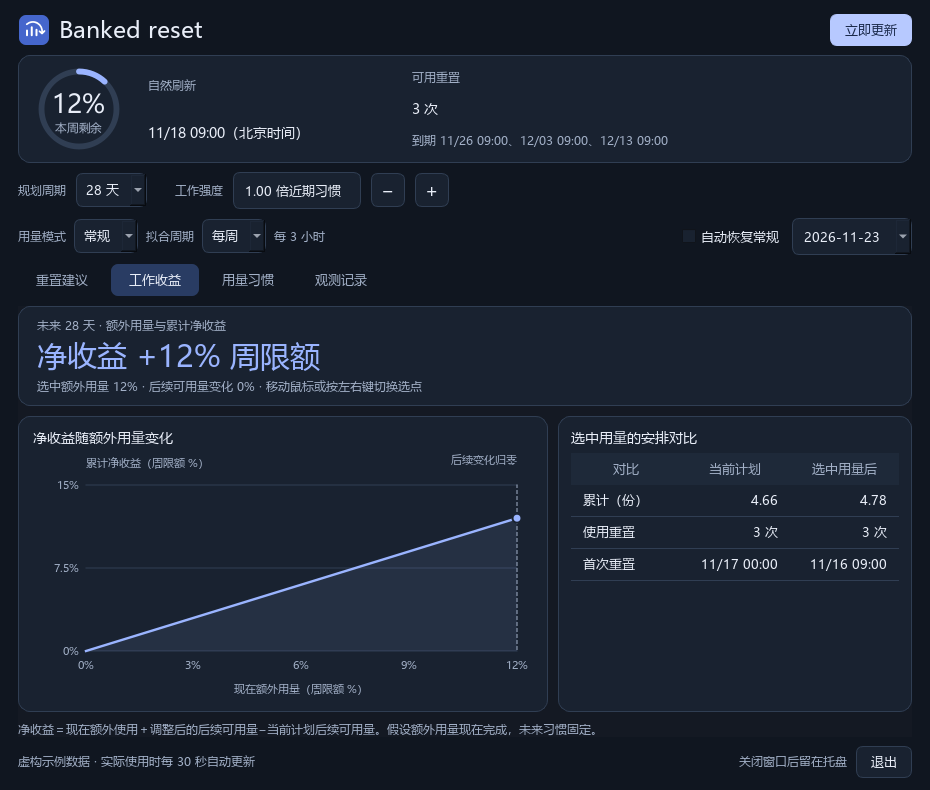
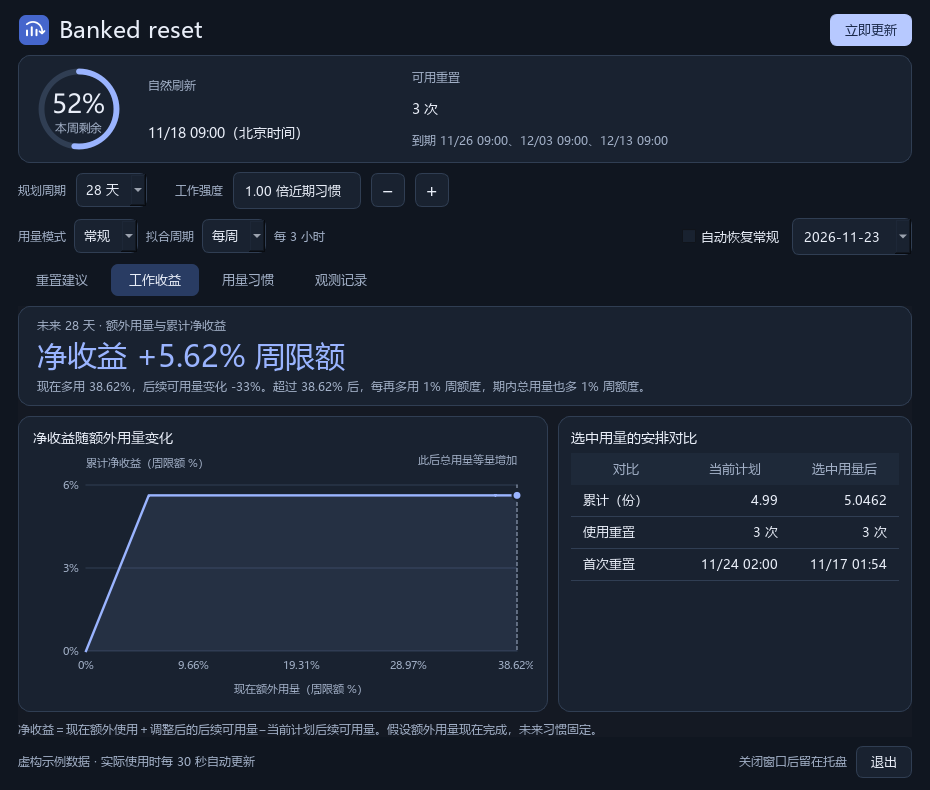
End the return curve when each extra point adds one point to total usage

diff --git a/calculator.js b/calculator.js
@@ -82,6 +82,20 @@
     return a.time > b.time;
   }
 
+  function resetTimes(start, end, expiries, options, depletion) {
+    const grid = [start];
+    for (const time of options.candidateTimes ?? []) {
+      if (Number.isFinite(time) && time >= start && time < end - EPS) grid.push(time);
+    }
+    for (let t = Math.ceil(start / HOUR) * HOUR; t < end - EPS; t += HOUR) {
+      if (t > start + EPS) grid.push(t);
+    }
+    // Exact current depletion and each deadline supplement the hourly grid.
+    if (!options.sharedCandidates && depletion !== null && depletion < end - EPS) grid.push(depletion);
+    for (const expiry of expiries) if (expiry - HOUR > start && expiry - HOUR < end) grid.push(expiry - HOUR);
+    return [...new Set(grid)].sort((a,b) => a-b);
+  }
+
   function optimize(model, options = {}) {
     const start = options.start ?? model.account.capturedAt;
     const end = start + (options.days ?? 28) * 24 * HOUR;
@@ -91,18 +105,8 @@
     const expiries = (options.expiries ?? model.account.expiries).filter(e => e > start).sort((a,b) => a-b);
     const demand = demandCurve(model, start, end, strength);
     const base = { time: start, remaining, refresh, served: 0, count: 0, waste: 0, prev: null, card: -1 };
-    const grid = [start];
-    for (const time of options.candidateTimes ?? []) {
-      if (Number.isFinite(time) && time >= start && time < end - EPS) grid.push(time);
-    }
-    for (let t = Math.ceil(start / HOUR) * HOUR; t < end - EPS; t += HOUR) {
-      if (t > start + EPS) grid.push(t);
-    }
-    // Exact current depletion and each deadline supplement the hourly grid.
     const depletion = demand.reaches(start, Math.min(end, refresh), remaining);
-    if (!options.sharedCandidates && depletion !== null && depletion < end - EPS) grid.push(depletion);
-    for (const expiry of expiries) if (expiry - HOUR > start && expiry - HOUR < end) grid.push(expiry - HOUR);
-    const candidates = [...new Set(grid)].sort((a,b) => a-b);
+    const candidates = resetTimes(start, end, expiries, options, depletion);
 
     function solve(forceNow) {
       const nodes = [];
@@ -186,15 +190,17 @@
       // Show both sides of the strict reset-eligibility boundary.
       usages.push(remaining-80, Math.min(remaining, remaining-80+.01));
     }
+    const demand = demandCurve(model, start, end, options.strength ?? 1);
+    const until = Math.min(end, refresh);
+    const spare = remaining - demand.at(until);
+    if (spare > EPS && spare < remaining) usages.push(spare);
     const samples = [...new Set(usages)].sort((a,b) => a-b);
     const comparable = Object.assign({}, options);
     if (samples.length) {
-      const demand = demandCurve(model, start, end, options.strength ?? 1);
-      const until = Math.min(end, refresh);
       // Every point, including the unchanged plan, uses the same search times.
       comparable.candidateTimes = (options.candidateTimes ?? []).concat(
         samples.map(used => demand.reaches(start, until, remaining-used)));
-      // Keep the same grid while locating the future-change zero crossing.
+      // Compare every extra-usage scenario on the same reset grid.
       comparable.sharedCandidates = true;
     }
     const result = optimize(model, comparable);
@@ -214,28 +220,52 @@
       return { usage, after: summary(plan.optimal, usage), futureGain, totalGain: usage+futureGain };
     }
     let points = samples.map(score);
-    let last = 0;
-    points.forEach((point, index) => { if (point.futureGain >= -EPS) last = index; });
-    let limit = Math.abs(points[points.length-1].futureGain) <= EPS ? 'futureZero' : 'quota';
-    if (last < points.length-1) {
-      limit = 'futureZero';
-      let endpoint = points[last], high = points[last+1].usage;
-      while (high-endpoint.usage > .001) {
-        const trial = score((endpoint.usage+high)/2);
-        if (trial.futureGain >= -EPS) endpoint = trial;
-        else high = trial.usage;
-      }
-      points = points.slice(0, last+1);
-      if (endpoint.usage > points[last].usage+EPS) points.push(endpoint);
-      if (endpoint.usage > 0 && points.length < 21) {
-        const known = new Map(points.map(point => [point.usage, point]));
-        const visible = [...new Set(points.map(point => point.usage).concat(
-          Array.from({length: 19}, (_, i) => endpoint.usage*(i+1)/20)))].sort((a,b) => a-b);
-        points = visible.map(usage => known.get(usage) ?? score(usage));
+    const fullBalance = points[points.length-1];
+    // Find the start of the final interval with constant future usage.
+    // Between first-reset eligibility changes, every feasible schedule's
+    // future usage is nonincreasing as more balance is spent now.
+    const probes = new Set(samples);
+    if (remaining >= 80 && result.expiries.length) {
+      const lastReset = result.expiries[result.expiries.length-1]-HOUR;
+      for (const time of resetTimes(start, end, result.expiries, comparable, null)) {
+        if (time >= refresh-EPS || time > lastReset+EPS) break;
+        const gate = remaining-demand.at(time)-80+EPS;
+        if (gate >= 0 && gate < remaining) {
+          probes.add(Math.max(0, gate-EPS));
+          probes.add(Math.min(remaining, gate+EPS));
+        }
       }
     }
+    const known = new Map(points.map(p => [p.usage, p]));
+    const at = x => {
+      if (!known.has(x)) known.set(x, score(x));
+      return known.get(x);
+    };
+    const onTail = x => Math.abs(at(x).futureGain-fullBalance.futureGain) <= EPS;
+    let endpoint = remaining;
+    for (const x of [...probes].sort((a,b) => b-a)) {
+      if (onTail(x)) {
+        endpoint = x;
+        continue;
+      }
+      let low = x;
+      while (endpoint-low > EPS/4) {
+        const mid = (low+endpoint)/2;
+        if (onTail(mid)) endpoint = mid; else low = mid;
+      }
+      break;
+    }
+    // A boundary within the numeric resolution of the balance is the balance.
+    if (remaining-endpoint < .001 && endpoint > 0) endpoint = remaining;
+    const limit = endpoint < remaining ? 'linearTail' : 'quota';
+    if (limit === 'linearTail') {
+      const visible = new Set(points.filter(p => p.usage <= endpoint).map(p => p.usage));
+      visible.add(endpoint);
+      for (let i = 1; i < 20; i++) visible.add(endpoint*i/20);
+      points = [...visible].sort((a,b) => a-b).map(at);
+    }
     result.marginal = { available: true, availableUsage: remaining,
-      maxUsage: points[points.length-1].usage, limit, before, points };
+      maxUsage: points[points.length-1].usage, limit, before, fullBalance, points };
     return result;
   }
   scope.BankResetCore = { demandCurve, segment, optimize, calculate, HOUR, WEEK };

diff --git a/tests/test_desktop.py b/tests/test_desktop.py
@@ -68,27 +68,27 @@ class WorkReturnTests(unittest.TestCase):
         self.window.show()
         self.app.processEvents()
         chart = self.window.marginal_chart
-        self.assertIn('0–43%', self.window.comparison.text())
+        self.assertIn('0–50%', self.window.comparison.text())
         self.assertEqual(chart.curve['points'][0]['usage'], 0)
-        self.assertAlmostEqual(chart.curve['points'][-1]['usage'], 43, places=2)
+        self.assertAlmostEqual(chart.curve['points'][-1]['usage'], 50, places=2)
         plot = chart.plot_rect()
         target = plot.center()
         target.setX(plot.right()-1)
         QTest.mouseClick(chart, Qt.MouseButton.LeftButton, pos=target.toPoint())
-        self.assertAlmostEqual(chart.selected_usage, 43, places=2)
+        self.assertAlmostEqual(chart.selected_usage, 50, places=2)
         self.assertEqual(self.window.marginal_value.text(), '净收益 +43% 周限额')
         self.assertEqual(self.window.marginal_table.item(0, 1).text(), '0.28')
         self.assertEqual(self.window.marginal_table.item(0, 2).text(), '0.71')
-        self.assertAlmostEqual(chart.curve['points'][-1]['futureGain'], 0)
+        self.assertAlmostEqual(chart.curve['points'][-1]['futureGain'], -7)
         QTest.keyClick(chart, Qt.Key.Key_Home)
         self.assertEqual(chart.selected_usage, 0)
         self.assertEqual(self.window.marginal_value.text(), '净收益 0% 周限额')
         self.assertFalse(self.window.marginal_details.isHidden())
         self.assertEqual(self.window.marginal_table.item(0, 2).text(), '0.28')
         QTest.keyClick(chart, Qt.Key.Key_Right)
-        self.assertAlmostEqual(chart.selected_usage, 2.15, places=2)
-        self.assertEqual(self.window.marginal_value.text(), '净收益 +2.15% 周限额')
-        self.assertEqual(self.window.marginal_table.item(0, 2).text(), '0.3015')
+        self.assertAlmostEqual(chart.selected_usage, 2.5, places=2)
+        self.assertEqual(self.window.marginal_value.text(), '净收益 +2.5% 周限额')
+        self.assertEqual(self.window.marginal_table.item(0, 2).text(), '0.305')
 
     def test_totals_subtract_one_full_allowance_per_week(self):
         for index, days, total, surplus in [(0, 14, '0.14', '-1.86'),
@@ -155,15 +155,33 @@ class WorkReturnTests(unittest.TestCase):
         self.assertTrue(payload['result']['marginal']['available'])
         self.assertTrue(self.window.marginal_details.isHidden())
         self.assertIsNone(self.window.marginal_chart.curve)
-        self.assertEqual(self.window.marginal_value.text(), '现在多用，预计会减少后续可用量')
-        self.assertIn('只剩额外用量为 0% 的起点', self.window.marginal_note.text())
-        self.assertEqual(self.window.comparison.text(), self.window.marginal_value.text()+'。')
+        self.assertEqual(self.window.marginal_value.text(), '预计 28 天总用量持平')
+        self.assertIn('现在多用 0.5%，之后少用 0.5%', self.window.marginal_note.text())
+        self.assertIn('如果现在用完余额', self.window.comparison.text())
         self.assertEqual(self.window.marginal_table.rowCount(), 0)
         self.assertNotIn('切换选点', self.window.marginal_note.text())
         self.window.update_state(copy.deepcopy(self.payload))
         self.assertFalse(self.window.marginal_details.isHidden())
         self.assertIsNotNone(self.window.marginal_chart.curve)
         self.assertEqual(self.window.marginal_table.rowCount(), 3)
+
+    def test_break_even_range_is_visible_until_extra_usage_no_longer_displaces_future_usage(self):
+        self.window.days.setCurrentIndex(0)
+        payload = copy.deepcopy(self.payload)
+        model = payload['state']['model']
+        start = model['account']['capturedAt']
+        model['hourlyRates'] = [[25/24]*8 for _ in range(7)]
+        model['dailyRates'] = [25]*7
+        model['account'].update(nextRefresh=start+4*86400, expiries=[start+3600], availableCount=1)
+        payload['settings'][0] = 14
+        payload['result'] = Calculator().optimize(model, 14)
+        self.window.update_state(payload)
+        curve = self.window.marginal_chart.curve
+        self.assertFalse(self.window.marginal_details.isHidden())
+        self.assertAlmostEqual(curve['maxUsage'], 25, places=5)
+        self.assertEqual(self.window.marginal_value.text(), '净收益 0% 周限额')
+        self.assertIn('超过 25% 后', self.window.marginal_note.text())
+        self.assertEqual(curve['fullBalance']['totalGain'], 25)
 
     def test_empty_quota_shows_unavailable_instead_of_old_curve(self):
         payload = copy.deepcopy(self.payload)

diff --git a/desktop.py b/desktop.py
@@ -343,8 +343,9 @@ class Window(QMainWindow):
 
     def update_marginal(self, marginal, waiting='等待有效用量'):
         self.marginal_period.setText('未来 '+str(self.days.currentData())+' 天 · 额外用量与累计净收益')
-        has_curve = bool(marginal and marginal['available'] and
-                         any(points(sample['totalGain']) != '0' for sample in marginal['points']))
+        has_curve = bool(marginal and marginal['available'] and marginal['maxUsage'] > 0 and
+                         (marginal['limit'] == 'linearTail' or
+                          any(points(abs(sample['totalGain'])) != '0' for sample in marginal['points'])))
         if has_curve:
             self.comparison.setText('现在额外使用 0–'+points(marginal['maxUsage'])+'% 周限额的净收益曲线，见「工作收益」。')
         self.marginal_details.setVisible(has_curve)
@@ -355,23 +356,27 @@ class Window(QMainWindow):
             self.marginal_note.setText('取得足够的用量记录和有效账户状态后自动计算。' if marginal is None else '额度刷新后，会自动恢复曲线。')
             self.marginal_table.setRowCount(0)
         elif not has_curve:
-            if marginal['maxUsage'] == 0:
-                title = '现在多用，预计会减少后续可用量'
-                note = '曲线画到后续可用量变化归零为止，这次只剩额外用量为 0% 的起点。'
-            else:
-                title = '图示范围内的净收益约为 0%'
-                note = '本次估算的额外用量范围为 0–'+points(marginal['maxUsage'])+'% 周限额。'
+            example = marginal['fullBalance']
+            days = self.days.currentData()
+            gain = example['totalGain']
+            change = example['futureGain']
+            title = f'预计 {days} 天总用量持平' if points(abs(gain)) == '0' else (
+                f'预计 {days} 天合计'+('多用 ' if gain > 0 else '少用 ')+points(abs(gain))+'% 周额度')
+            future = '之后用量持平' if points(abs(change)) == '0' else (
+                '之后'+('多用 ' if change > 0 else '少用 ')+points(abs(change))+'%')
+            note = '如果现在用完余额：现在多用 '+points(example['usage'])+'%，'+future+'。百分比均按一周满额计算。'
             self.marginal_value.setText(title)
             self.marginal_note.setText(note)
-            self.comparison.setText(title+'。')
+            self.comparison.setText('如果现在用完余额，'+title+'。')
             self.marginal_table.setRowCount(0)
 
     def show_marginal_point(self, sample):
         self.marginal_value.setText('净收益 '+points(sample['totalGain'], True)+'% 周限额')
-        self.marginal_note.setText('选中额外用量 '+points(sample['usage'])+'% · 后续可用量变化 '+
-                                   points(sample['futureGain'], True)+'% · 移动鼠标或按左右键切换选点'
-                                   if self.marginal_chart.curve['maxUsage'] else
-                                   '额外用量会减少后续可用量，显示范围止于 0%。')
+        curve = self.marginal_chart.curve
+        note = '现在多用 '+points(sample['usage'])+'%，后续可用量变化 '+points(sample['futureGain'], True)+'%。'
+        if curve['limit'] == 'linearTail':
+            note += '超过 '+points(curve['maxUsage'])+'% 后，每再多用 1% 周额度，期内总用量也多 1% 周额度。'
+        self.marginal_note.setText(note)
         before, after = self.marginal_chart.curve['before'], sample['after']
         reset_date = lambda value: date(value) if value is not None else '不需要'
         quantity = lambda value: f'{value/100:.4f}'.rstrip('0').rstrip('.')

diff --git a/desktop_visuals.py b/desktop_visuals.py
@@ -218,7 +218,8 @@ class MarginalChart(QWidget):
         if curve and curve['available']:
             samples = curve['points']
             if self.selected_usage is None:
-                index = max(range(len(samples)), key=lambda i: (round(samples[i]['totalGain'], 6), -samples[i]['usage']))
+                index = len(samples)-1 if curve['limit'] == 'linearTail' else max(
+                    range(len(samples)), key=lambda i: (round(samples[i]['totalGain'], 6), -samples[i]['usage']))
             else:
                 index = min(range(len(samples)), key=lambda i: abs(samples[i]['usage']-self.selected_usage))
             self.select_point(index)
@@ -292,7 +293,7 @@ class MarginalChart(QWidget):
         p.setPen(QColor(self.colors['muted']))
         p.drawText(round(plot.left()), 14, '累计净收益（周限额 %）')
         p.drawText(QRectF(self.width()-133, 0, 117, 18), Qt.AlignmentFlag.AlignRight,
-                   '后续变化归零' if data['limit'] == 'futureZero' else '当前余额上限')
+                   '此后总用量等量增加' if data['limit'] == 'linearTail' else '当前余额上限')
         for tick in range(3):
             value = maximum*tick/2
             level = y(value)
@@ -307,8 +308,6 @@ class MarginalChart(QWidget):
                        Qt.AlignmentFlag.AlignCenter, points(value)+'%')
         p.drawText(QRectF(plot.left(), self.height()-21, plot.width(), 18),
                    Qt.AlignmentFlag.AlignCenter, '现在额外用量（周限额 %）')
-        if not data['maxUsage']:
-            p.drawText(plot, Qt.AlignmentFlag.AlignCenter, '额外用量会减少后续可用量')
         path = QPainterPath()
         for index, sample in enumerate(data['points']):
             px, py = x(sample['usage']), y(sample['totalGain'])

diff --git a/tests/test_calculator.py b/tests/test_calculator.py
@@ -35,10 +35,10 @@ class CalculatorTests(unittest.TestCase):
         result=Calculator().optimize(model,days=1)
         marginal=result['marginal']
         self.assertEqual(marginal['availableUsage'],50)
-        self.assertAlmostEqual(marginal['maxUsage'],49,places=2)
+        self.assertAlmostEqual(marginal['maxUsage'],50,places=2)
         self.assertEqual(marginal['points'][0]['usage'],0)
-        self.assertAlmostEqual(marginal['points'][-1]['usage'],49,places=2)
-        self.assertAlmostEqual(marginal['points'][-1]['futureGain'],0)
+        self.assertAlmostEqual(marginal['points'][-1]['usage'],50,places=2)
+        self.assertAlmostEqual(marginal['points'][-1]['futureGain'],-1)
         sample=next(point for point in marginal['points'] if point['usage']==5)
         self.assertAlmostEqual(sample['totalGain'],5)
         self.assertAlmostEqual(marginal['before']['total'],1)

diff --git a/scripts/make-preview.py b/scripts/make-preview.py
@@ -74,6 +74,13 @@ def main():
         target.parent.mkdir(exist_ok=True)
         if not window.grab().save(str(target)):
             raise RuntimeError('Could not save README preview.')
+        # Use a balance that shows the transition to a one-for-one net gain.
+        work_account = dict(account, remaining=52)
+        work_model = dict(model, account=work_account)
+        window.update_state({'state': dict(state, account=work_account, model=work_model),
+                             'result': Calculator().optimize(work_model), 'error': None,
+                             'settings': [28, 1, window.fit_options()]})
+        window.status.setText('虚构示例数据 · 实际使用时每 30 秒自动更新')
         window.tabs.setCurrentIndex(1)
         app.processEvents()
         if not window.grab().save(str(ROOT/'docs'/'work-return.png')):

diff --git a/release_check.py b/release_check.py
@@ -40,7 +40,7 @@ def check(report_path):
                   'remaining': 50, 'nextRefresh': start+7*86400, 'expiries': []}}
     marginal = calculator.optimize(work_model, days=1)['marginal']
     if (not marginal['available'] or marginal['points'][0]['usage'] != 0 or
-            abs(marginal['points'][-1]['usage']-49) > .001 or
+            abs(marginal['points'][-1]['usage']-50) > .001 or
             abs(marginal['points'][1]['totalGain']-marginal['points'][1]['usage']) > 1e-6):
         raise RuntimeError('Release net-return curve is incorrect.')
     window.marginal_chart.set_curve(marginal)

diff --git a/docs/release-notes-0.4.1.md b/docs/release-notes-0.4.1.md
@@ -1,1 +1,1 @@
-修正「工作收益」和「重置安排」中的提示。收益曲线只剩原点时，说明现在多用预计会减少后续可用量。截断区间之外仍可能有净收益。
+修正「工作收益」曲线的终点。现在多用和后续少用相抵时，继续计算；当后续可用量稳定、此后每多用一份都能让总量增加一份时，曲线停在转折点。若一直没有这样的区间，曲线范围延伸到余额上限。
